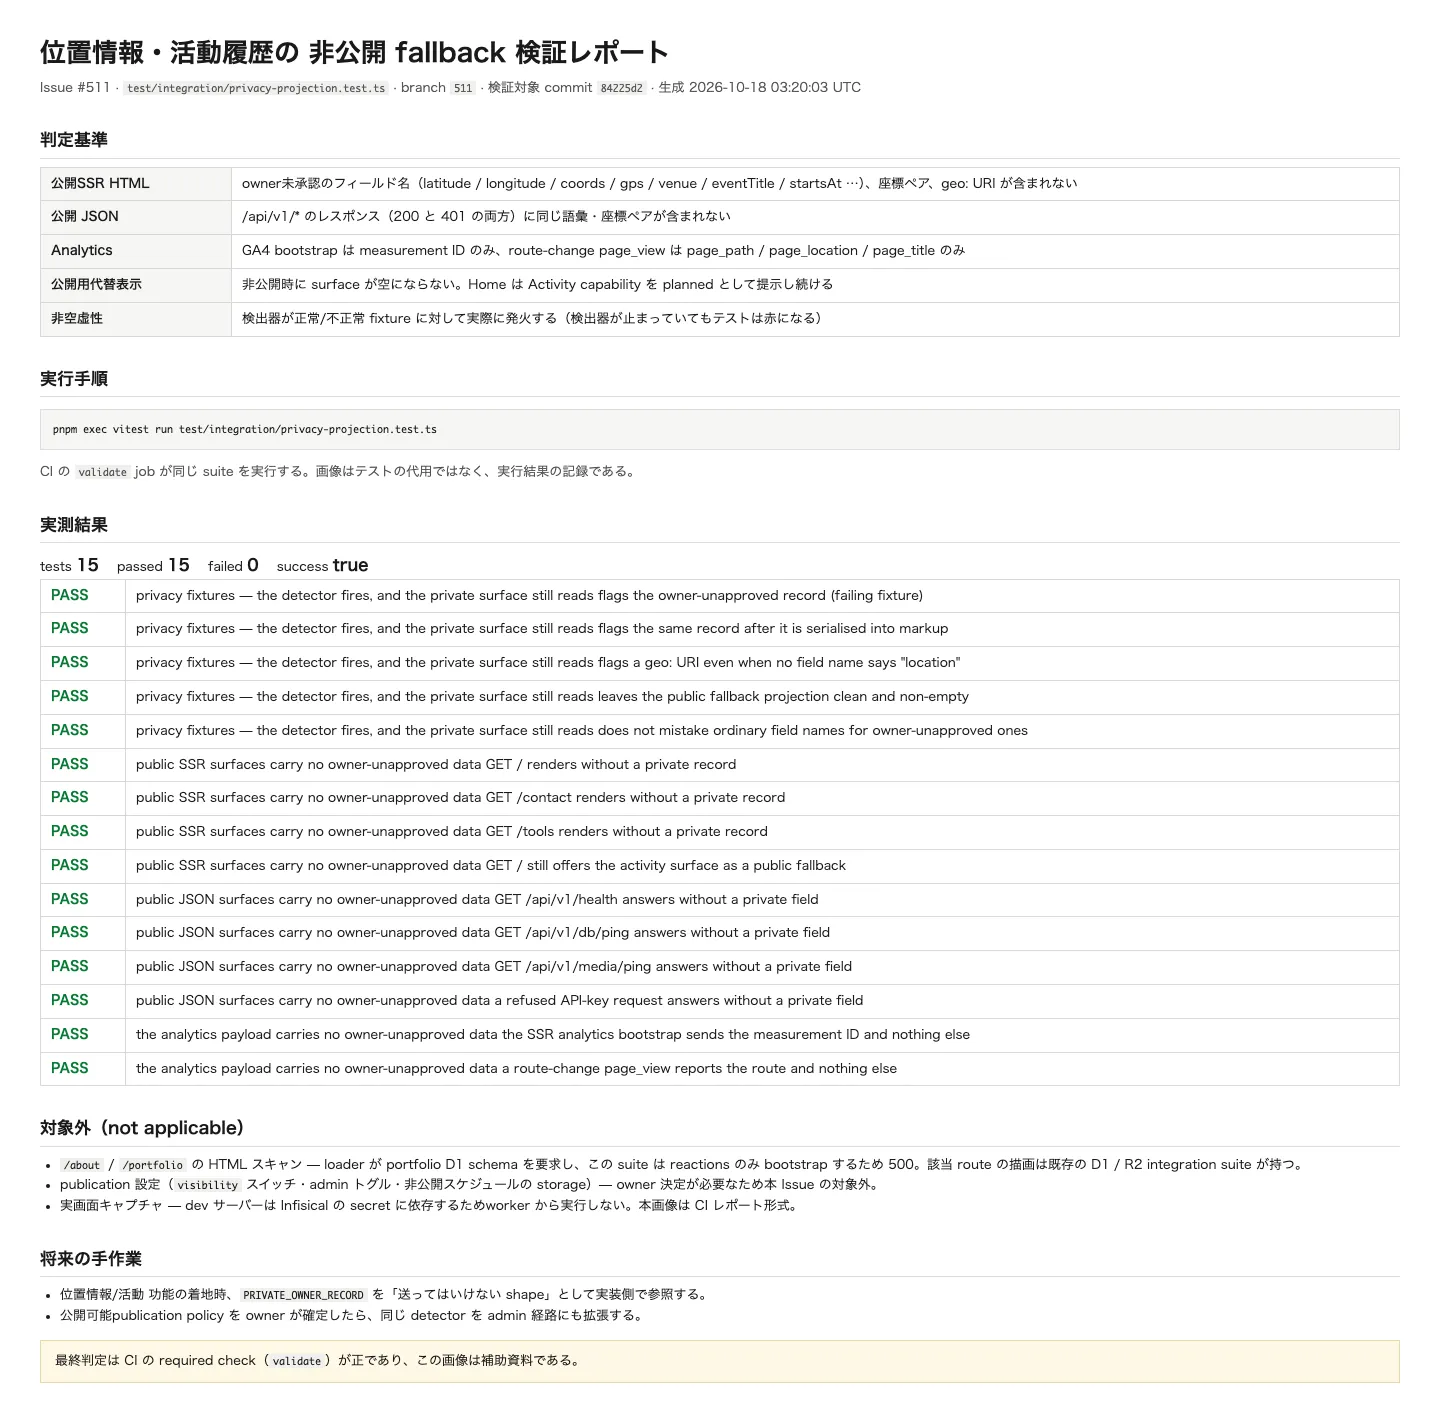
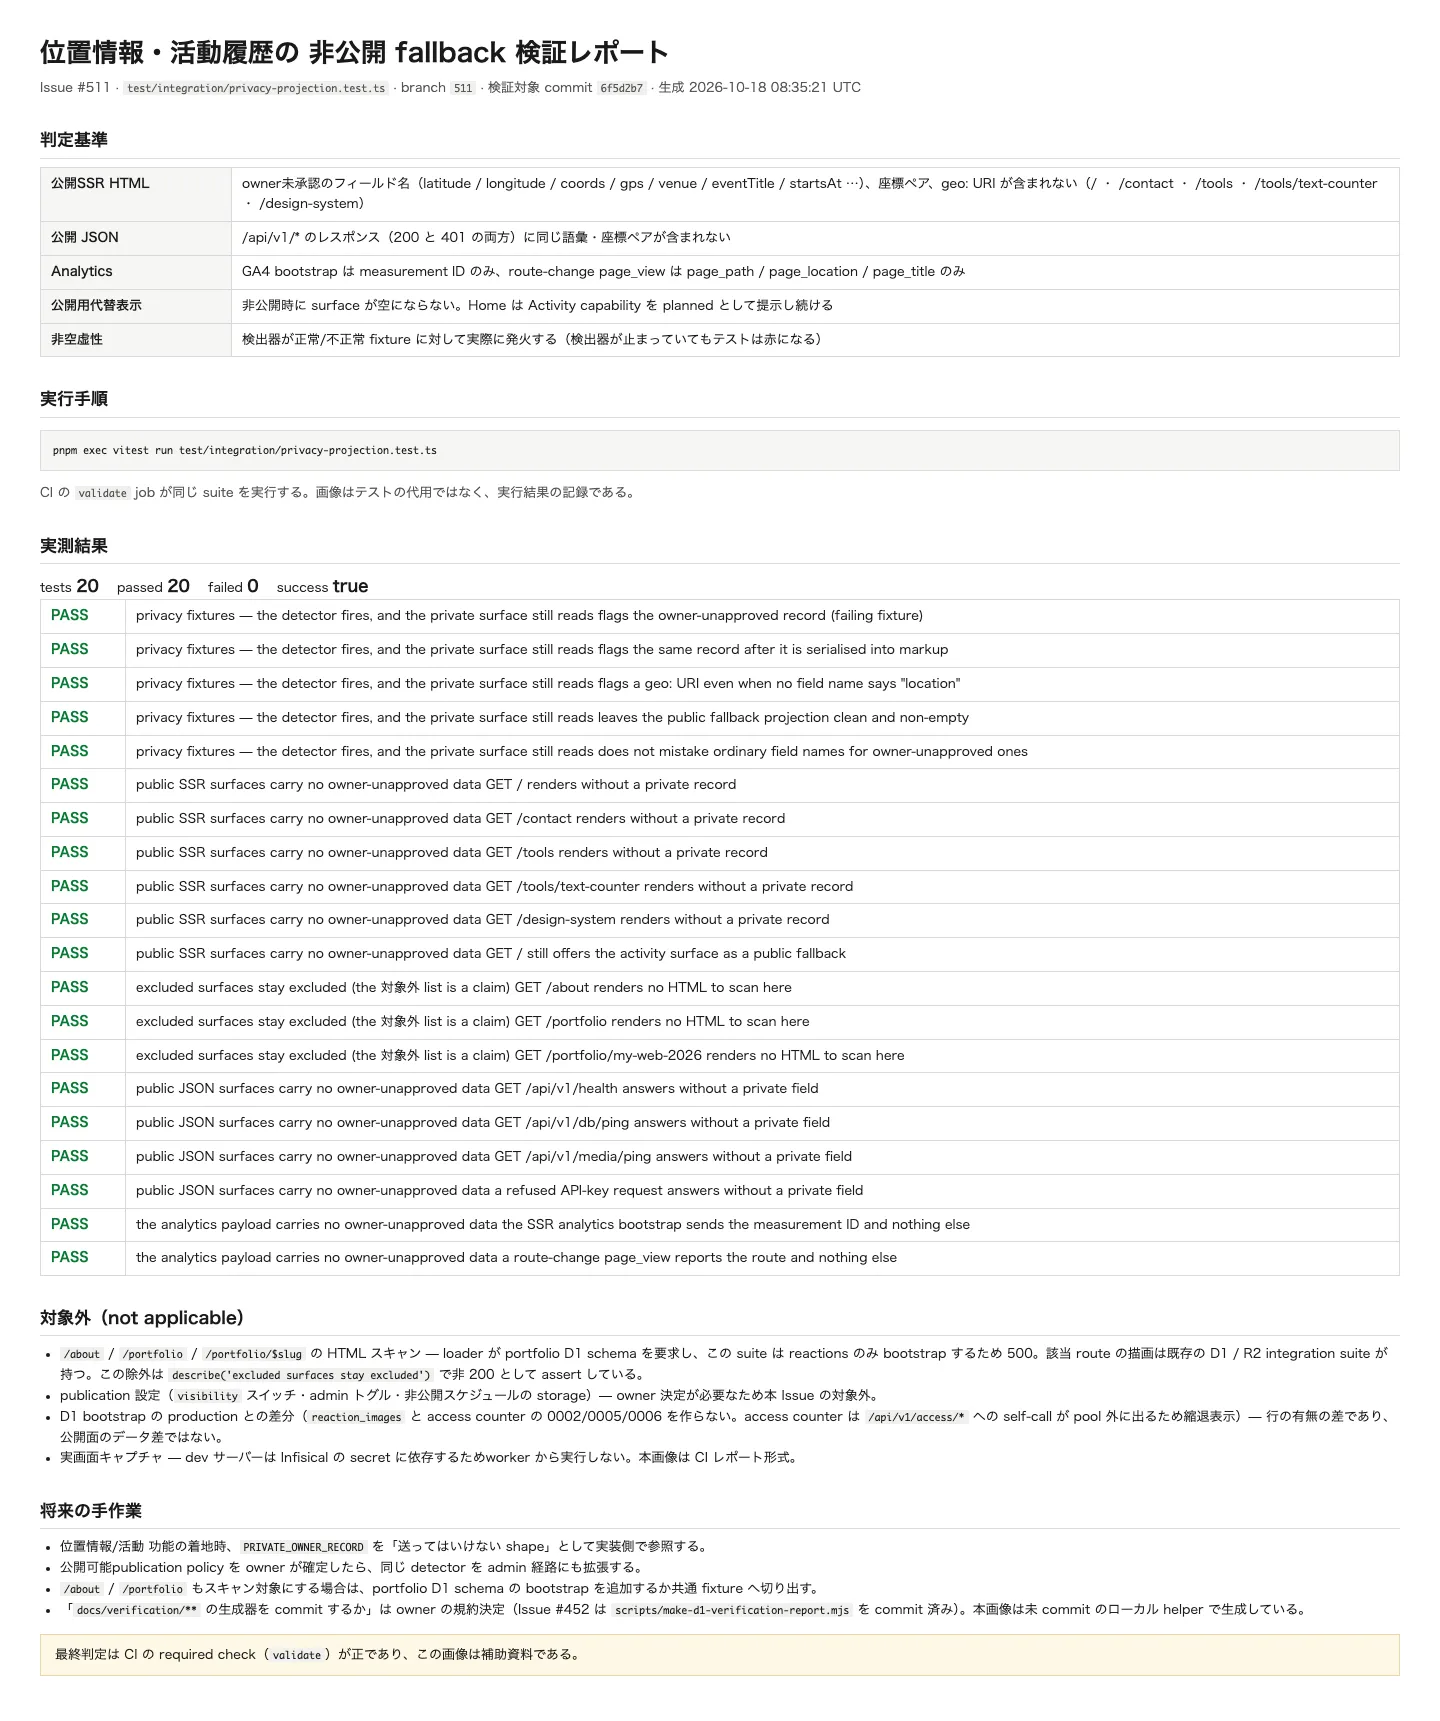
test(privacy): scan every public SSR surface and drop owner-shaped fixtures (#511)
The 対象外 list claimed /about and /portfolio were the only public
surfaces left unscanned, but /design-system (no loader) and
/tools/$slug (build-time registry loader) also render 200 in the
workerd pool, so the coverage claim was false. Scan them, and assert
the remaining exclusions as non-200 so the list cannot drift from the
code silently.

Also make the fixture synthetic (it carried coordinates that geocode
to the owner's city and the school published in docs/personal/),
disclose the full D1 bootstrap delta from production, and document the
quoted-key limitation of the serialised-key rule.

Changed region(s): [[0.0312, 0.0, 0.9688, 0.986], [0.875, 0.0924, 0.9375, 0.1232], [0.7812, 0.0924, 0.8125, 0.1232]]

diff --git a/test/integration/privacy-projection.test.ts b/test/integration/privacy-projection.test.ts
@@ -45,6 +45,25 @@ import {
  * carries). The catalog seed rows are omitted on purpose: this suite
  * asserts what the public surfaces carry, not what the emoji catalog
  * contains, and an empty catalog still renders the home page.
+ *
+ * Full list of what this bootstrap does NOT create, so nobody reads
+ * the scanned `/` HTML as byte-identical to production:
+ *
+ *   - `reaction_images` (same migration, `0003_reactions.sql`) —
+ *     no image reaction can be stored here.
+ *   - the access-counter migrations `0002` / `0005` / `0006` — and,
+ *     independently of the DDL, `src/home/access/load.ts` reaches the
+ *     counter through a self-call to `/api/v1/access/*`, which leaves
+ *     the pool (workerd answers it with the outbound stub, hence the
+ *     `[home.access.*] upstream failed` stderr). Either way the home
+ *     access-counter tile renders its empty / degraded state instead
+ *     of a live count.
+ *
+ * Both deltas are about which *rows* exist, not about what the
+ * surfaces may carry, so they cannot hide an owner-unapproved
+ * location / schedule record. Closing them would mean duplicating
+ * more DDL here; the production-equality of these tables is owned by
+ * the D1 integration suites, not by this one.
  */
 const MIGRATIONS = [
 	{
@@ -83,12 +102,31 @@ const MIGRATIONS = [
 /**
  * Public HTML surfaces that render in this pool.
  *
- * `/about` and `/portfolio` are deliberately absent: their loaders
- * read the portfolio D1 schema, which this file does not bootstrap
- * (it only needs the reactions tables for `/`), so both answer 500
- * here and there is no HTML to scan.
+ * `/design-system` (no loader, in the public nav) and
+ * `/tools/text-counter` (loader reads the build-time Tool registry,
+ * not D1) are included: they are public surfaces a future location or
+ * calendar widget could be added to, and leaving them unscanned would
+ * make the suite's coverage claim false.
+ *
+ * `/about`, `/portfolio` and `/portfolio/$slug` are deliberately
+ * absent: their loaders read the portfolio D1 schema, which this file
+ * does not bootstrap (it only needs the reactions tables for `/`), so
+ * they answer 500 here and there is no HTML to scan. The
+ * `describe('excluded surfaces stay excluded')` block below keeps that
+ * exclusion honest — if one of them ever starts rendering 200 in this
+ * pool, that test fails and the exclusion has to be revisited here, in
+ * the README and in the PR body.
  */
-const PUBLIC_SSR_PATHS = ['/', '/contact', '/tools'] as const;
+const PUBLIC_SSR_PATHS = [
+	'/',
+	'/contact',
+	'/tools',
+	'/tools/text-counter',
+	'/design-system',
+] as const;
+
+/** Surfaces the suite does NOT scan, with the reason recorded below. */
+const EXCLUDED_SSR_PATHS = ['/about', '/portfolio', '/portfolio/my-web-2026'] as const;
 
 /**
  * Public JSON surfaces that answer without an API key.
@@ -133,7 +171,7 @@ describe('privacy fixtures — the detector fires, and the private surface still
 	});
 
 	it('flags a geo: URI even when no field name says "location"', () => {
-		const leaks = findTextLeaks('<a href="geo:33.9846,131.4216">current place</a>');
+		const leaks = findTextLeaks('<a href="geo:12.3456,-98.7654">current place</a>');
 		expect(leaks.map((leak) => leak.rule)).toContain('geo-uri');
 	});
 
@@ -187,6 +225,25 @@ describe('public SSR surfaces carry no owner-unapproved data', () => {
 		expect(html).toContain('planned');
 		expect(html).not.toContain('href="/activity"');
 	}, 30_000);
+});
+
+describe('excluded surfaces stay excluded (the 対象外 list is a claim)', () => {
+	it.each(EXCLUDED_SSR_PATHS)(
+		'GET %s renders no HTML to scan here',
+		async (path) => {
+			// `docs/verification/privacy/README.md` and the PR body both
+			// state that these render nothing in this pool. That is a
+			// claim about coverage, so it is asserted here instead of
+			// only being written down: if a future bootstrap — or a
+			// loader that stops needing the portfolio schema — makes one
+			// of them answer 200, this fails and the surface has to be
+			// added to the scan, not quietly dropped from the exclusion
+			// list.
+			const res = await SELF.fetch(`https://example.com${path}`);
+			expect(res.status).not.toBe(200);
+		},
+		30_000,
+	);
 });
 
 describe('public JSON surfaces carry no owner-unapproved data', () => {

diff --git a/test/helpers/privacy-surface.ts b/test/helpers/privacy-surface.ts
@@ -188,23 +188,27 @@ export function isPrivateFieldName(name: string): boolean {
  * calendar entry. This is the 不正常 fixture — the detector must
  * flag it wherever it appears.
  *
- * The values are deliberately invented and local to this file: they
- * are test data, not a claim about where the owner is.
+ * The values are synthetic and local to this file: pattern-shaped
+ * numbers (`12.3456` / `-98.7654`) that geocode nowhere meaningful,
+ * and a venue that is not a real place. A fixture in a *privacy*
+ * contract must not itself carry an approximation of where the owner
+ * is — that would put the record this suite forbids onto the public
+ * surface (the repository) in the name of testing for it.
  */
 export const PRIVATE_OWNER_RECORD = {
 	visibility: 'private' as const,
 	location: {
-		latitude: 33.9846,
-		longitude: 131.4216,
+		latitude: 12.3456,
+		longitude: -98.7654,
 		/** The GeoJSON / `geo:` shape: one string carrying both halves. */
-		coordinates: '33.9846, 131.4216',
+		coordinates: '12.3456, -98.7654',
 		accuracy: 12.5,
 		capturedAt: '2026-10-18T09:12:00+09:00',
 	},
 	events: [
 		{
 			eventTitle: 'Pivot 406 private review',
-			venue: '宇部工業高等専門学校',
+			venue: 'Fixture Venue (架空の会場 / not a real place)',
 			startsAt: '2026-10-18T13:00:00+09:00',
 			endsAt: '2026-10-18T14:30:00+09:00',
 		},
@@ -239,7 +243,20 @@ export const PUBLIC_FALLBACK_PROJECTION = {
  */
 const COORDINATE_PAIR = /(?<![\w.])-?\d{1,3}\.\d{3,}\s*[,、]\s*-?\d{1,3}\.\d{3,}(?![\w.])/g;
 const GEO_URI = /geo:(-?\d{1,3}\.\d+),(-?\d{1,3}\.\d+)/g;
-/** `"latitude":` / `"eventTitle":` — JSON keys inside serialised payloads. */
+/**
+ * `"latitude":` / `"eventTitle":` — JSON keys inside serialised
+ * payloads.
+ *
+ * Known limitation (precision over recall, documented rather than
+ * fixed): the rule requires a **quoted** key. An unquoted JS literal
+ * * (`{latitude:12.3456,longitude:-98.7654}`) inside a `<script>` is
+ * therefore invisible to this rule; only the coordinate-pair rule
+ * would still catch it, and only if it carries 3+ decimals. Today
+ * TanStack Start serialises JSON, so the JSON shape is what arrives
+ * on the public surface — but a future serialiser that emits an
+ * object literal would silently narrow rule 1. Treat a change of
+ * serialiser as a change to this rule.
+ */
 const SERIALISED_KEY = /"([^"\\]{1,64})"\s*:/g;
 /** `<div ...>` — a tag and its attribute block. */
 const TAG = /<\/?([a-zA-Z][a-zA-Z0-9:-]*)((?:"[^"]*"|'[^']*'|[^>"'])*)>/g;

diff --git a/docs/verification/privacy/README.md b/docs/verification/privacy/README.md
@@ -15,7 +15,7 @@ the surface must still show something when the data is private.
 
   | 対象 | 基準 |
   | --- | --- |
-  | 公開SSR HTML | owner未承認のフィールド名・座標ペア・`geo:` URI が含まれない |
+  | 公開SSR HTML | owner未承認のフィールド名・座標ペア・`geo:` URI が含まれない（`/` `/contact` `/tools` `/tools/text-counter` `/design-system`） |
   | 公開 JSON | `/api/v1/*` の 200 / 401 レスポンスに同じ語彙が含まれない |
   | Analytics | GA4 bootstrap は measurement ID のみ、`page_view` は `page_path` 系のみ |
   | 公開用代替表示 | 非公開でも surface は空にならない（Home は Activity を `planned` として提示し続ける） |
@@ -34,8 +34,36 @@ the surface must still show something when the data is private.
   起動できない。画像は補助資料であり、判定は CI の `validate` job
   が担う。
 
+  生成手順は「vitest の JSON 出力 → report HTML → Chromium で
+  1440px 撮影 → WebP (quality 80)」だが、その helper は `.tmp/` 配下
+  （gitignore 対象）に置いており **未 commit**。同種のアーティファクトでは
+  `scripts/make-d1-verification-report.mjs`（Issue #452）が生成器を
+  commit している。「`docs/verification/**` の生成器を commit するか」は
+  owner の規約決定として未確定のため、ここでは判断せず記録のみ行う。
+
+- **スキャン対象の公開SSR HTML**
+
+  `/` `/contact` `/tools` `/tools/text-counter` `/design-system`。
+  `/tools/$slug` は loader が build 時 Tool manifest を読むだけ、
+  `/design-system` は loader を持たず、どちらも D1 を要求しないので
+  この pool で 200 を返す。公開 nav に載る面なので「未スキャン」を
+  受け入れる側ではなくスキャン側に倒している。
+
 - **対象外**
 
-  `/about` / `/portfolio` の HTML（loader が portfolio D1 schema を
-  要求し、対象 suite は reactions のみ bootstrap するため 500）、
-  publication 設定の実装（owner 決定が必要）、多言語表示。
+  - `/about` / `/portfolio` / `/portfolio/$slug` の HTML（loader が
+    portfolio D1 schema を要求し、対象 suite は reactions のみ
+    bootstrap するため 500）。該当 route の描画は既存の D1 / R2
+    integration suite が所有。この除外は
+    `describe('excluded surfaces stay excluded')` で「非 200 であること」
+    として assert してあり、主張を prose だけにしない。
+  - publication 設定の実装（owner 決定が必要）。
+  - 多言語表示。
+  - この suite の D1 bootstrap が production と一致しない差分。
+    `reaction_images`（`0003`）と access counter の
+    `0002`/`0005`/`0006` を作らない。加えて
+    `src/home/access/load.ts` は `/api/v1/access/*` へ self-call するが、
+    この pool では outbound fetch が pool 外に出るため
+    （`[home.access.*] upstream failed`）、`/` の access-counter
+    タイルは空 / 縮退表示になる。いずれも「どの行があるか」の差であり、
+    公開面が持ちうる owner 未承認データの差ではない。
